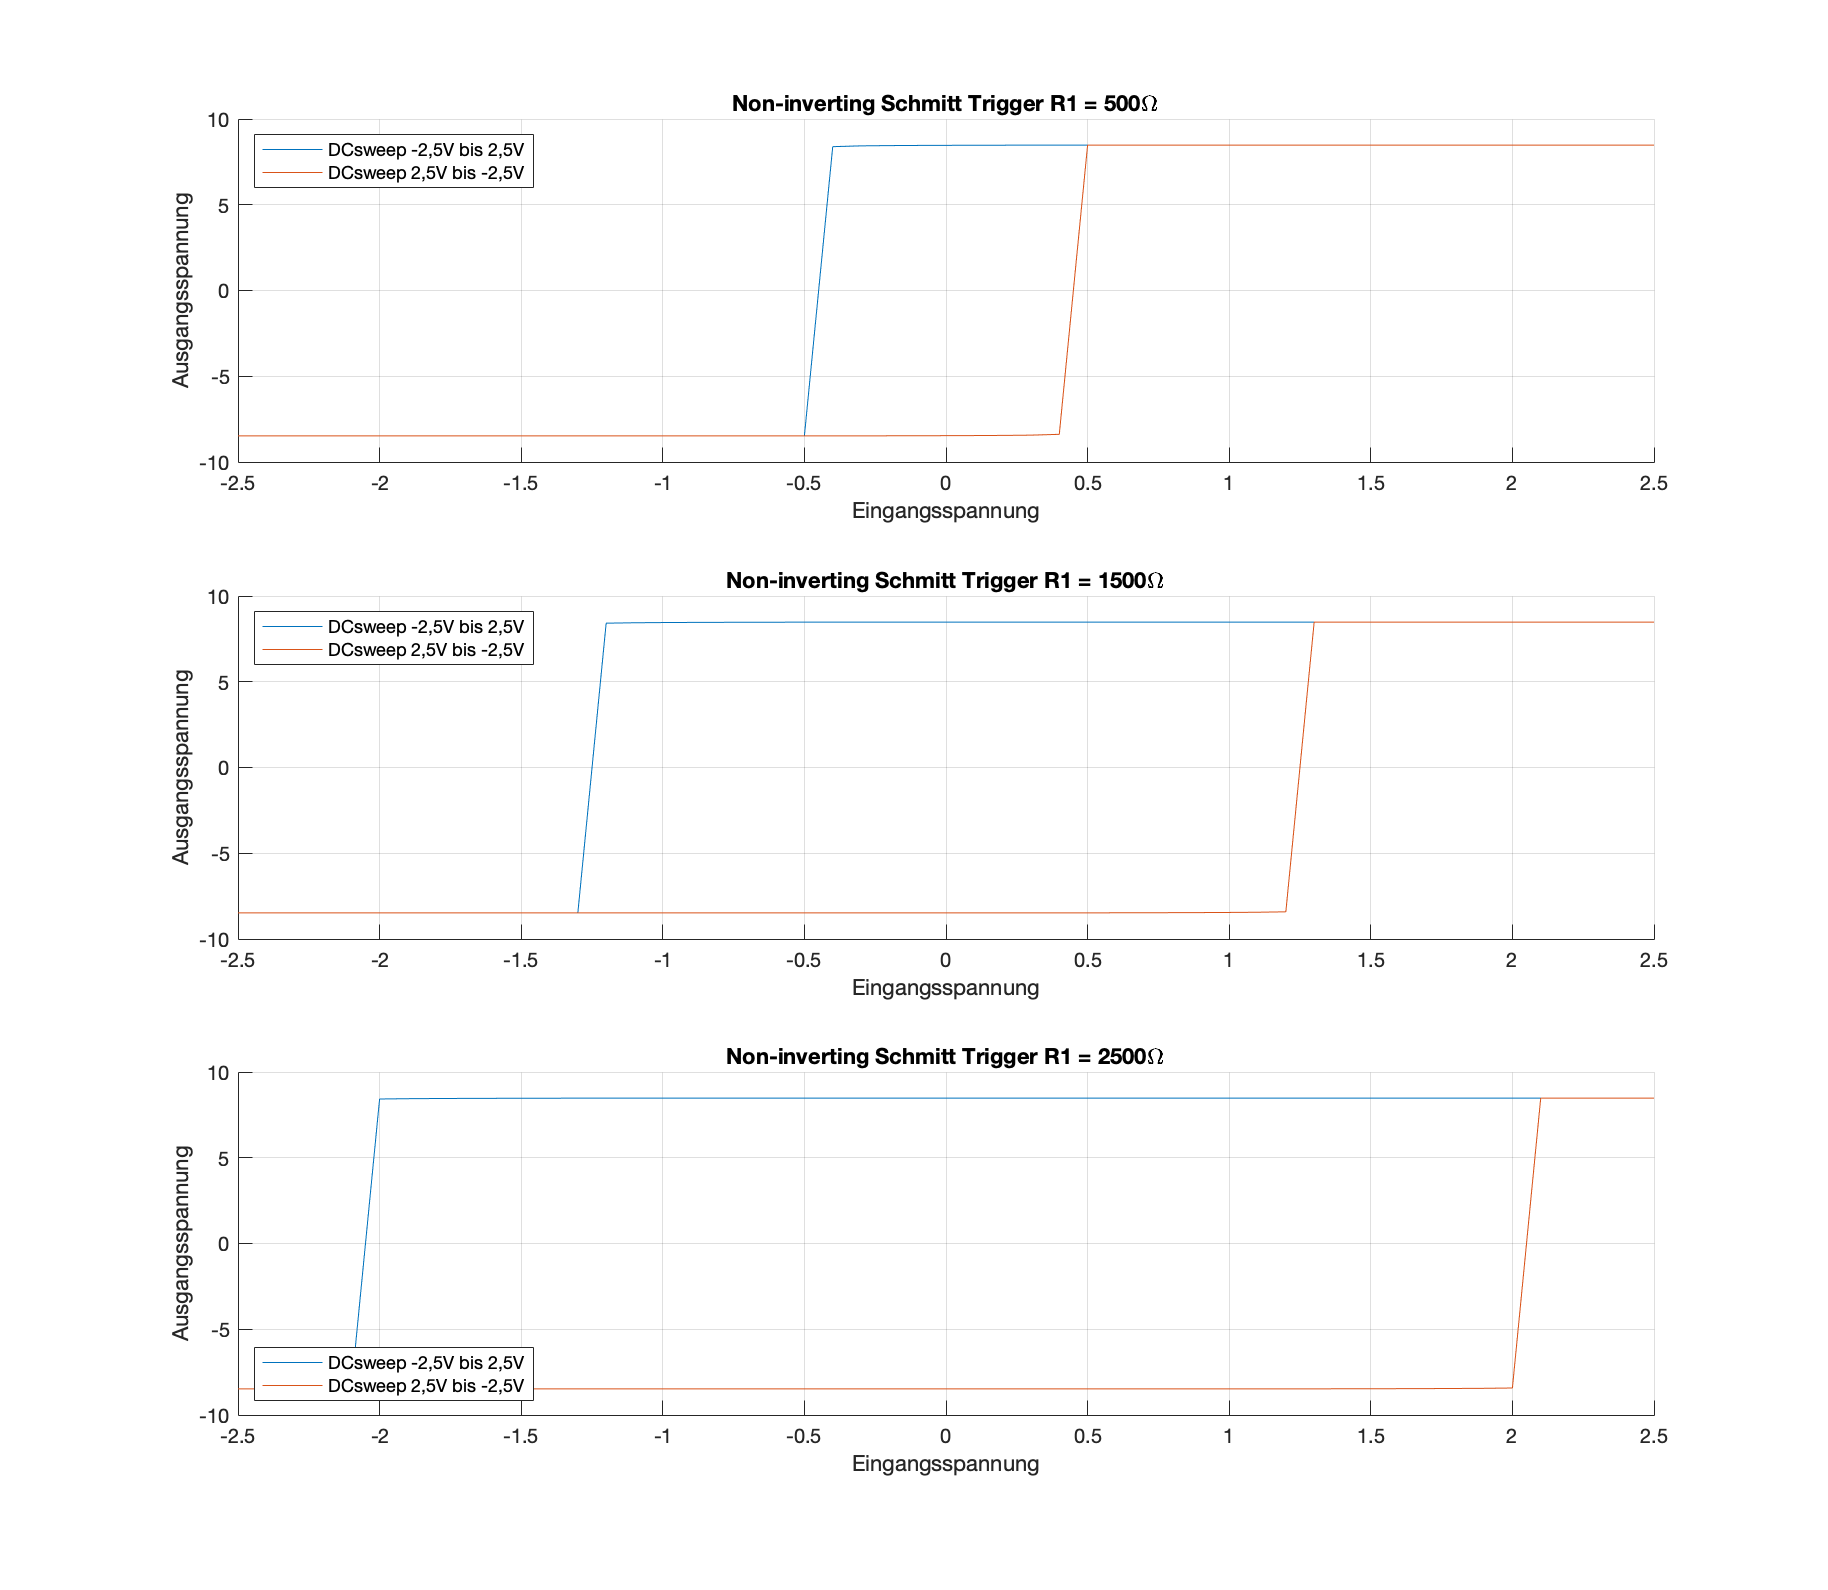
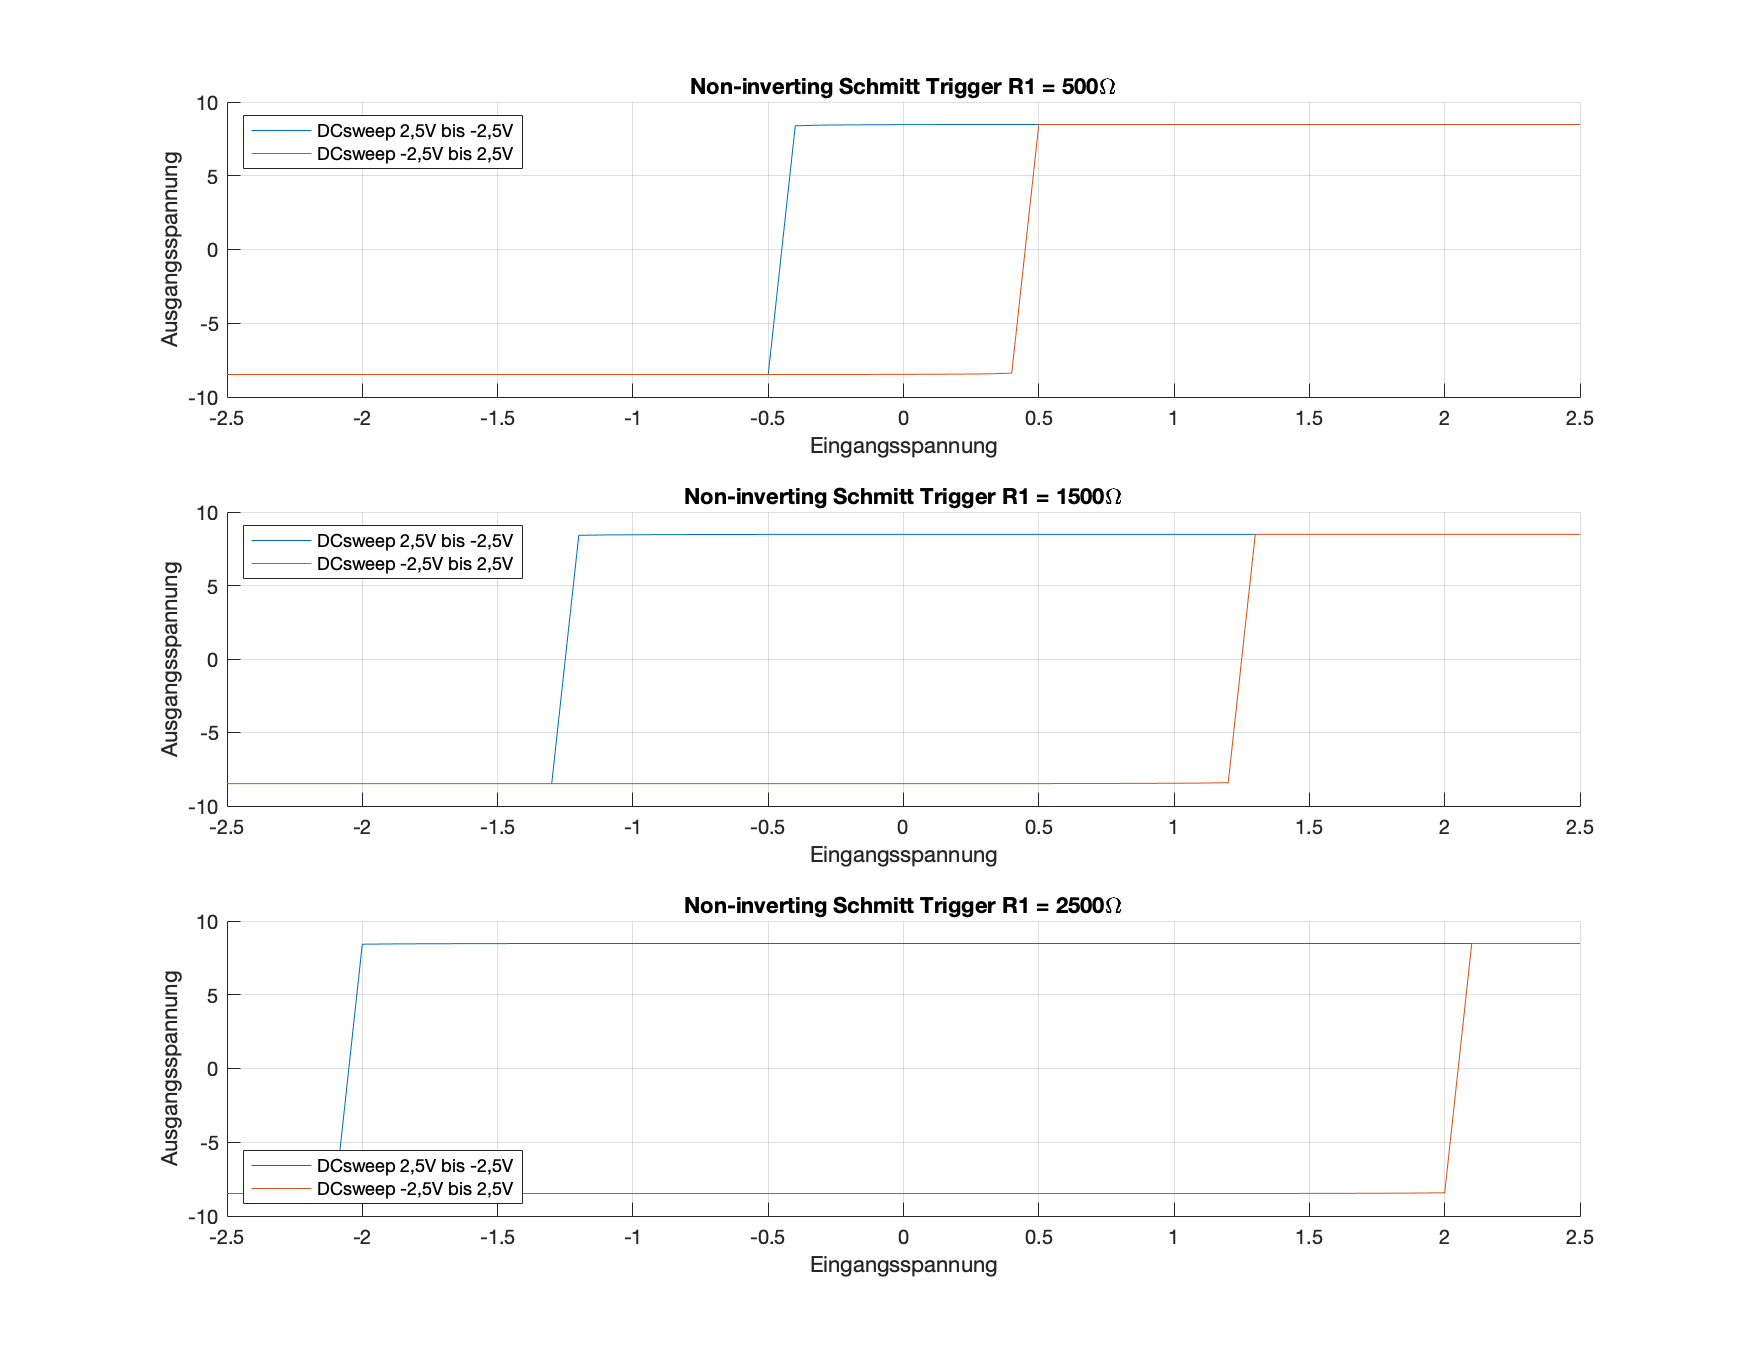
upload

diff --git a/docs/math/Experiment_02/Simulation 2.2.1/regfeedback.m b/docs/math/Experiment_02/Simulation 2.2.1/regfeedback.m
@@ -62,7 +62,7 @@ subplot(311)
 hold all
 plot(in_1, out_1)
 plot(in_2, out_2)
-legend('DCsweep -2,5V bis 2,5V','DCsweep 2,5V bis -2,5V')
+legend('DCsweep 2,5V bis -2,5V','DCsweep -2,5V bis 2,5V')
 legend('Location','northwest') 
 title('Non-inverting Schmitt Trigger R1 = 500\Omega')
 ylabel('Ausgangsspannung')
@@ -72,7 +72,7 @@ subplot(312)
 hold all
 plot(in_3, out_3)
 plot(in_4, out_4)
-legend('DCsweep -2,5V bis 2,5V','DCsweep 2,5V bis -2,5V')
+legend('DCsweep 2,5V bis -2,5V','DCsweep -2,5V bis 2,5V')
 legend('Location','northwest') 
 title('Non-inverting Schmitt Trigger R1 = 1500\Omega')
 ylabel('Ausgangsspannung')
@@ -82,7 +82,7 @@ subplot(313)
 hold all
 plot(in_5, out_5)
 plot(in_6, out_6)
-legend('DCsweep -2,5V bis 2,5V','DCsweep 2,5V bis -2,5V')
+legend('DCsweep 2,5V bis -2,5V','DCsweep -2,5V bis 2,5V')
 legend('Location','southwest') 
 title('Non-inverting Schmitt Trigger R1 = 2500\Omega')
 ylabel('Ausgangsspannung')
